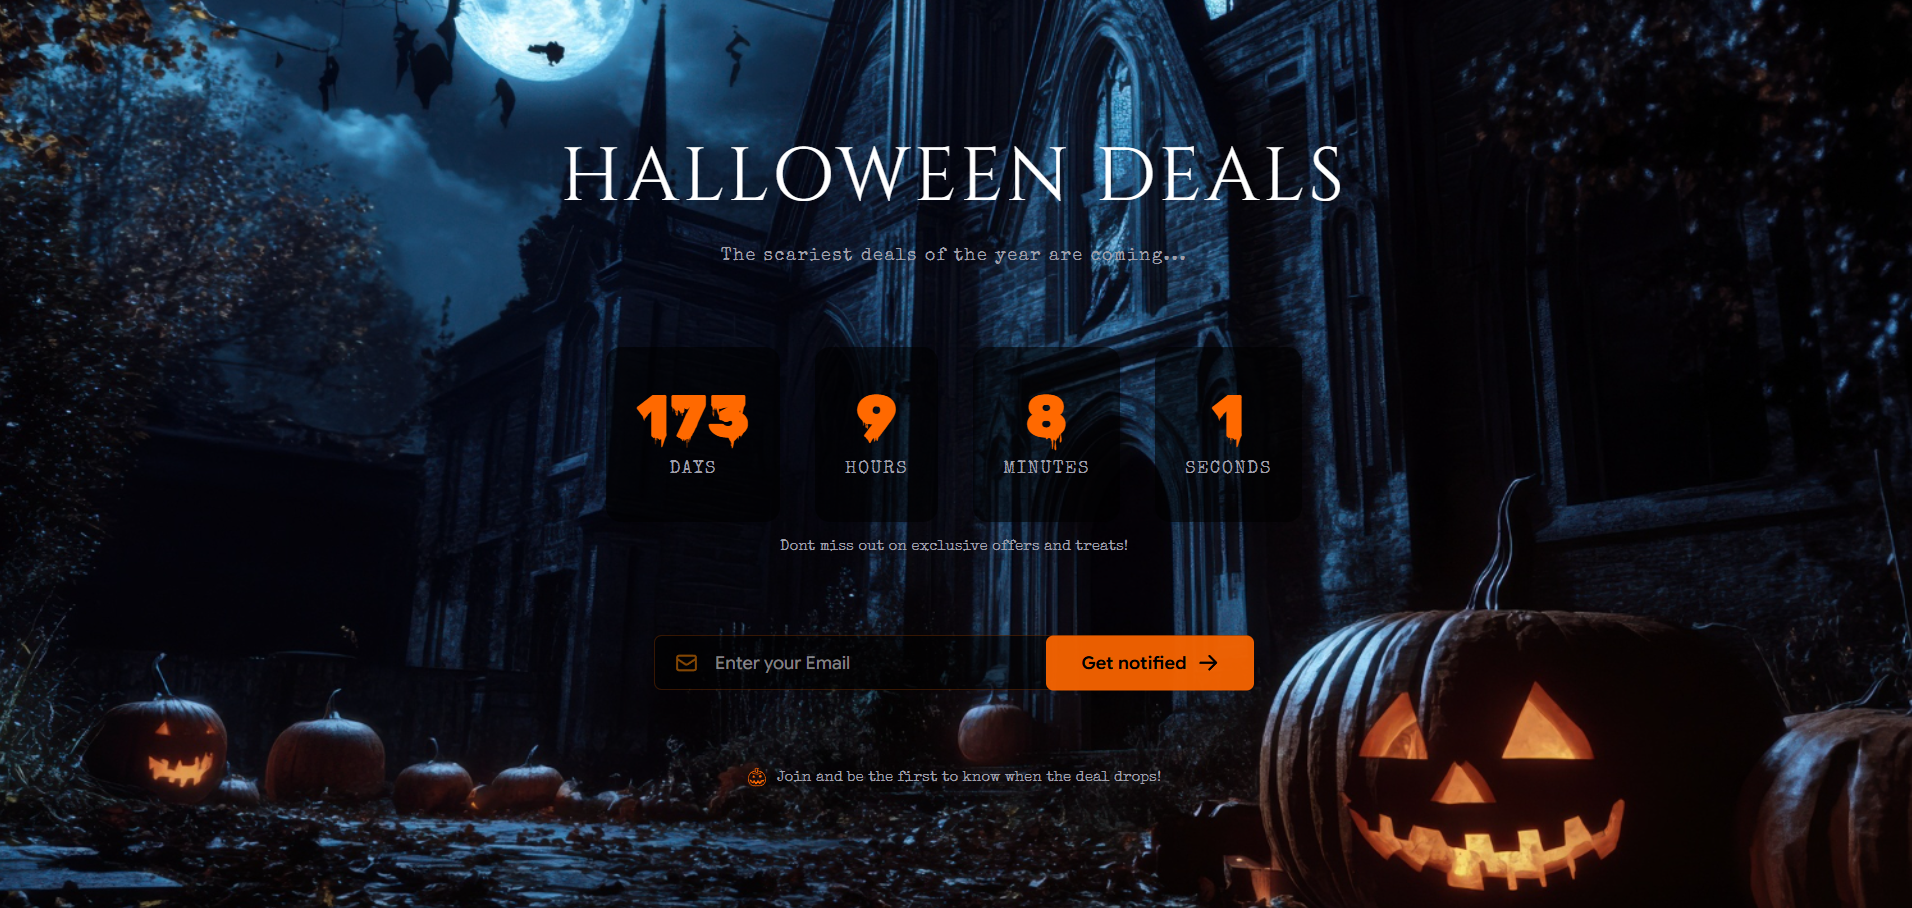
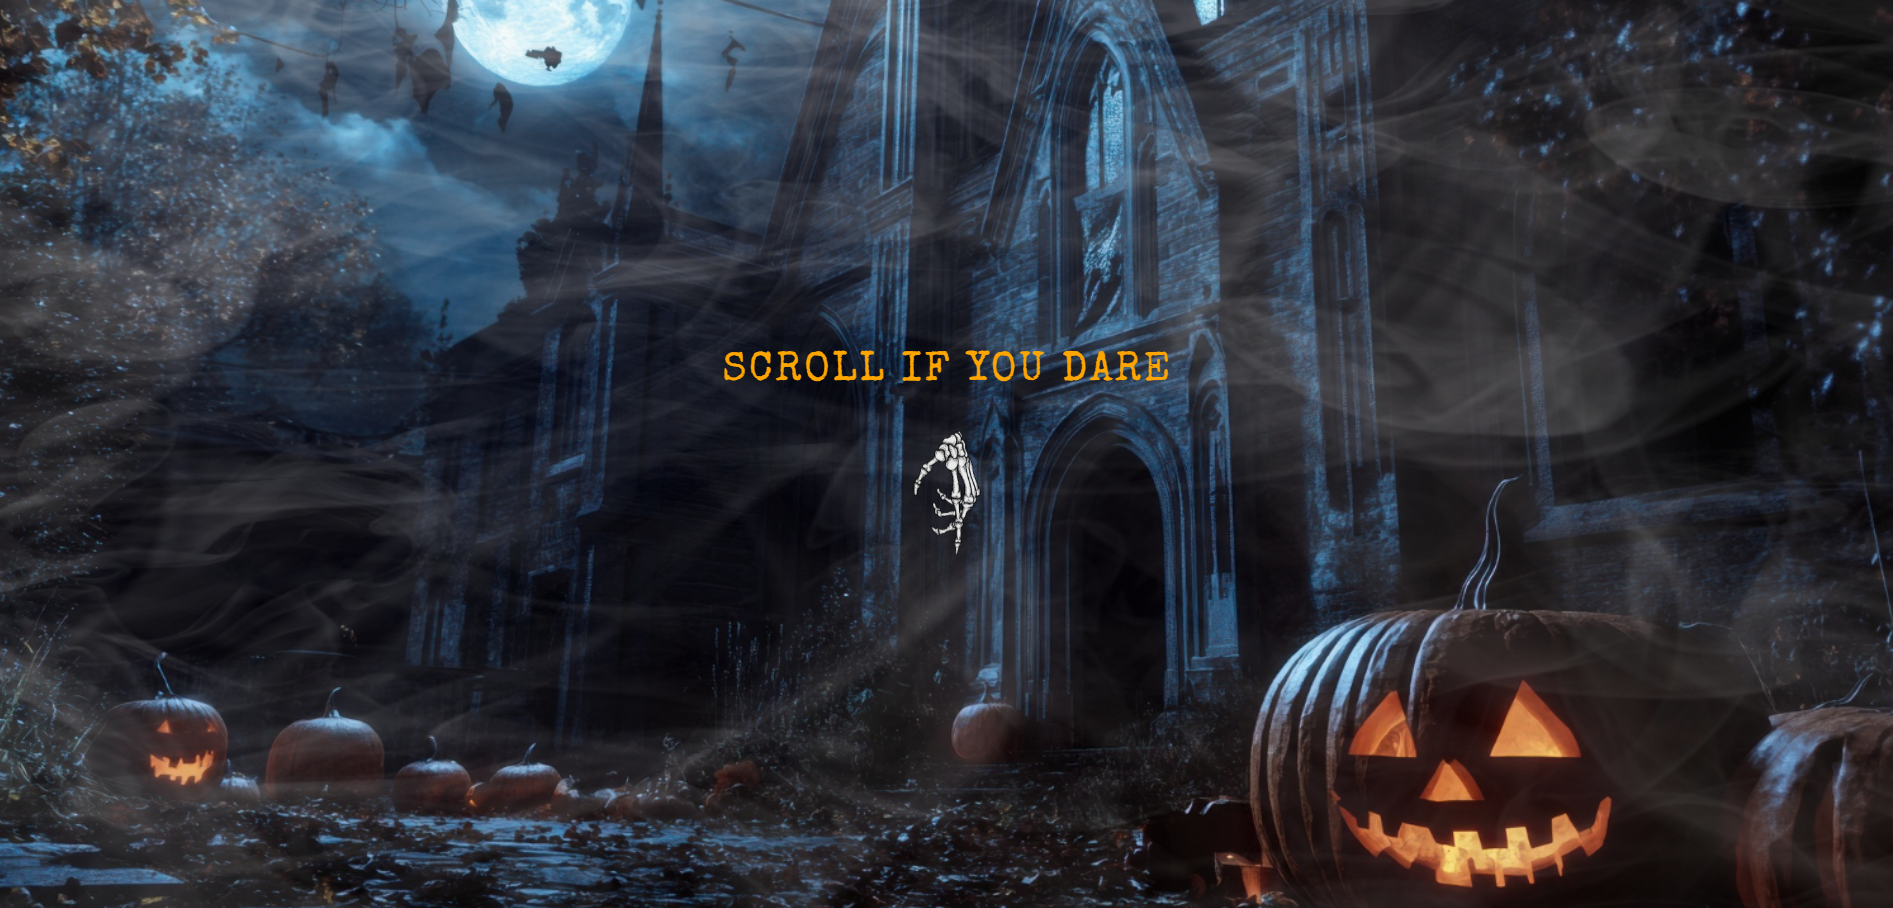
feat:new project added

diff --git a/src/data.js b/src/data.js
@@ -65,7 +65,8 @@ import positivus from './assets/projects/positivus.png';
 import EcommerceUI from './assets/projects/EcommerceUI.png';
 import furniro from './assets/projects/furniro.png';
 import flower from './assets/projects/flowerDelivery.png';
-import halloweenLanding from './assets/projects/halloweenLanding.png'
+import halloweenLanding from './assets/projects/halloweenLanding.png';
+import christmasLanding from './assets/projects/christmasLanding.png'
 
 export const languageLogos = [
     // ================= CORE STACK =================
@@ -123,11 +124,21 @@ export const certifications = [
 
 export const projects = [
     {
+        title: "Christmas Landing",
+        projectImage: christmasLanding,
+        frontendRepo: 'https://github.com/RobertFacundo/christmas-landing',
+        deployedUrl: 'https://christmas-landing-kappa.vercel.app/',
+        isWip: true,
+        subtitle: "Next • Tailwind CSS • TypeScript • Three.js •  GSAP • Lenis",
+        date: "2026-05-16",
+        type: "frontend"
+    },
+    {
         title: "Halloween Landing",
         projectImage: halloweenLanding,
         frontendRepo: 'https://github.com/RobertFacundo/halloweenLanding',
         deployedUrl: 'https://halloween-landing-rho.vercel.app/',
-        subtitle:  "React • Tailwind CSS • TypeScript • Three.js •  GSAP • Lenis",
+        subtitle: "React • Tailwind CSS • TypeScript • Three.js •  GSAP • Lenis",
         date: "2026-05-10",
         type: "frontend"
     },
@@ -136,7 +147,7 @@ export const projects = [
         projectImage: flower,
         frontendRepo: 'https://github.com/RobertFacundo/flowerDelivery',
         deployedUrl: 'https://flower-delivery-ecru.vercel.app/',
-        subtitle:  "React • Redux Toolkit • Tailwind CSS • React Router • GSAP • Lenis • CSS Grid",
+        subtitle: "React • Redux Toolkit • Tailwind CSS • React Router • GSAP • Lenis • CSS Grid",
         date: "2026-05-05",
         type: "frontend"
     },